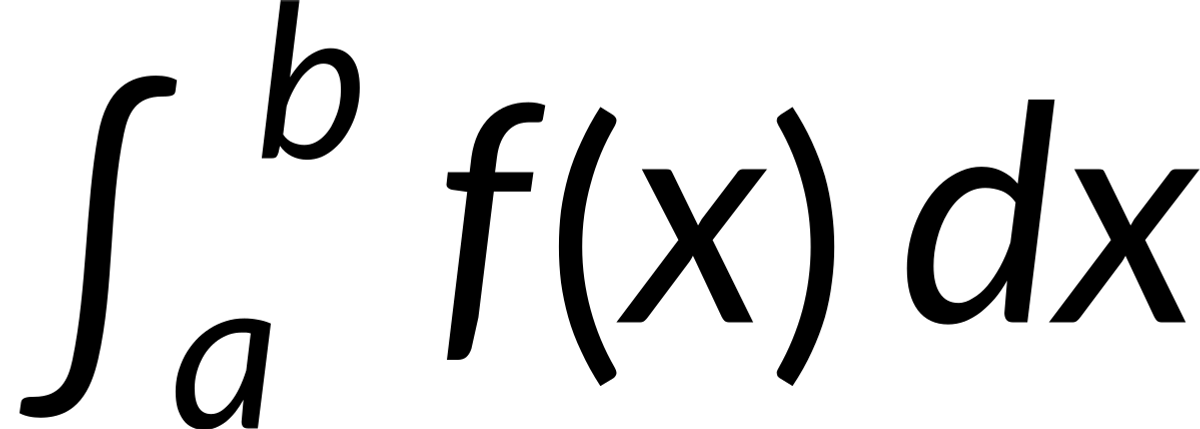
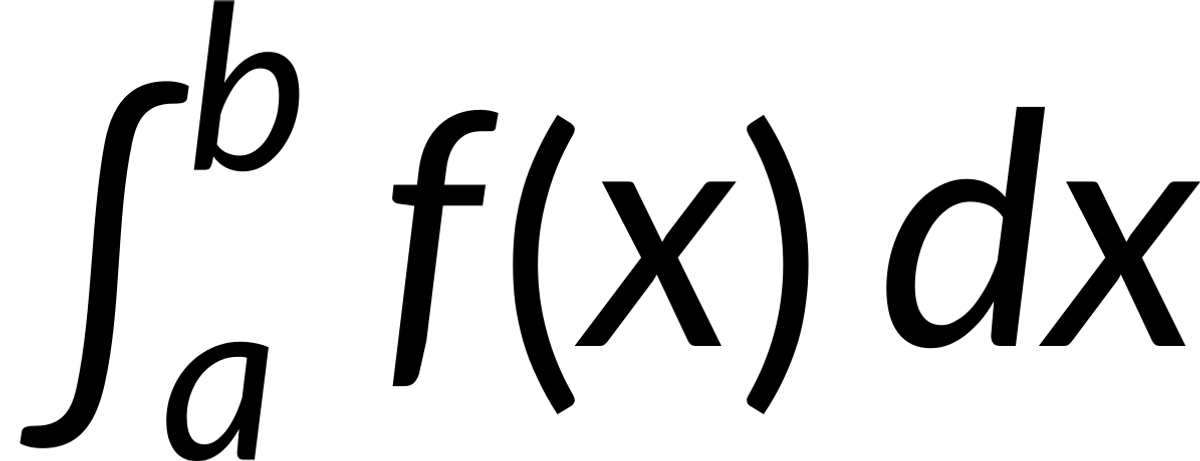
Lato: tighten integral smallop ratio to 0.78

diff --git a/mathjax-lato/cjs/svg/largeop.js b/mathjax-lato/cjs/svg/largeop.js
@@ -43,15 +43,15 @@ exports.largeop = {
     0x221A: [1.176, 0.294, 0.667, { p: '16 296 31 219 91 232 246 -294H352L655 1099H682V1176H589L296 -192L150 322Z' }],
     0x221B: [1.176, 0.294, 0.713, { p: '62 296 77 219 137 232 292 -294H398L701 1099H728V1176H635L342 -192L196 322ZM118 675C138 613 171 563 265 563C339 563 409 607 409 692C409 749 377 778 330 792C362 804 399 824 399 888C399 947 355 997 273 997C161 997 135 913 130 876C130 876 169 868 173 868C187 868 193 876 197 888C205 920 230 942 270 942C311 942 336 919 336 877C336 824 295 809 241 809V762C306 762 344 748 344 690C344 660 322 618 264 618C217 618 197 647 182 678C178 686 170 690 161 690C153 690 128 679 118 675Z' }],
     0x221C: [1.176, 0.294, 0.713, { p: '62 296 77 219 137 232 292 -294H398L701 1099H728V1176H635L342 -192L196 322ZM109 732 115 699C117 691 125 685 134 685H317V578H374V685H418C426 685 431 690 431 698V735H374V1003H312ZM179 735 319 929C317 915 317 901 317 888V735Z' }],
-    0x222B: [1.397, 0.837, 0.665, { p: '100 -819C124 -830 158 -837 193 -837C370 -837 433 -705 469 -556C600 -16 573 578 687 1122C709 1227 751 1314 886 1314H914C919 1314 937 1314 942 1331L948 1379C924 1390 892 1397 856 1397C670 1397 606 1274 579 1119C484 571 475 -17 362 -562C340 -667 297 -754 163 -754C128 -754 114 -755 107 -771Z', ic: 0.37 }],
-    0x222C: [1.397, 0.837, 0.896, { p: '100 -819C124 -830 158 -837 193 -837C370 -837 433 -705 469 -556C600 -16 573 578 687 1122C709 1227 751 1314 886 1314H914C919 1314 937 1314 942 1331L948 1379C924 1390 892 1397 856 1397C670 1397 606 1274 579 1119C484 571 475 -17 362 -562C340 -667 297 -754 163 -754C128 -754 114 -755 107 -771ZM440 -819C464 -830 498 -837 533 -837C710 -837 773 -705 809 -556C940 -16 913 578 1027 1122C1049 1227 1091 1314 1226 1314H1254C1259 1314 1277 1314 1282 1331L1288 1379C1264 1390 1232 1397 1196 1397C1010 1397 946 1274 919 1119C824 571 815 -17 702 -562C680 -667 637 -754 503 -754C468 -754 454 -755 447 -771Z', ic: 0.37 }],
-    0x222D: [1.397, 0.837, 1.127, { p: '100 -819C124 -830 158 -837 193 -837C370 -837 433 -705 469 -556C600 -16 573 578 687 1122C709 1227 751 1314 886 1314H914C919 1314 937 1314 942 1331L948 1379C924 1390 892 1397 856 1397C670 1397 606 1274 579 1119C484 571 475 -17 362 -562C340 -667 297 -754 163 -754C128 -754 114 -755 107 -771ZM440 -819C464 -830 498 -837 533 -837C710 -837 773 -705 809 -556C940 -16 913 578 1027 1122C1049 1227 1091 1314 1226 1314H1254C1259 1314 1277 1314 1282 1331L1288 1379C1264 1390 1232 1397 1196 1397C1010 1397 946 1274 919 1119C824 571 815 -17 702 -562C680 -667 637 -754 503 -754C468 -754 454 -755 447 -771ZM780 -819C804 -830 838 -837 873 -837C1050 -837 1113 -705 1149 -556C1280 -16 1253 578 1367 1122C1389 1227 1431 1314 1566 1314H1594C1599 1314 1617 1314 1622 1331L1628 1379C1604 1390 1572 1397 1536 1397C1350 1397 1286 1274 1259 1119C1164 571 1155 -17 1042 -562C1020 -667 977 -754 843 -754C808 -754 794 -755 787 -771Z', ic: 0.37 }],
-    0x222E: [1.397, 0.837, 0.665, { p: '100 -819C124 -830 158 -837 193 -837C370 -837 433 -705 469 -556C507 -400 531 -240 550 -78C737 -69 886 86 886 275C886 442 770 581 614 618C631 788 653 958 687 1122C709 1227 751 1314 886 1314H914C919 1314 937 1314 942 1331L948 1379C924 1390 892 1397 856 1397C670 1397 606 1274 579 1119C551 958 530 793 513 626C327 616 181 463 181 275C181 112 291 -25 440 -66C420 -233 396 -400 362 -562C340 -667 297 -754 163 -754C128 -754 114 -755 107 -771ZM253 275C253 420 364 539 505 554C486 372 469 189 449 7C336 43 253 150 253 275ZM558 -5C577 178 590 362 607 545C726 512 814 403 814 275C814 129 701 8 558 -5Z', ic: 0.37 }],
-    0x222F: [1.397, 0.837, 0.896, { p: '100 -819C124 -830 158 -837 193 -837C370 -837 433 -705 469 -556C509 -390 535 -218 554 -45C597 -54 642 -58 689 -58C720 -58 751 -56 781 -52C761 -224 737 -395 702 -562C680 -667 637 -754 503 -754C468 -754 454 -755 447 -771L440 -819C464 -830 498 -837 533 -837C710 -837 773 -705 809 -556C851 -384 876 -207 896 -27C1070 28 1192 152 1192 295C1192 422 1096 534 952 595C969 774 991 950 1027 1122C1049 1227 1091 1314 1226 1314H1254C1259 1314 1277 1314 1282 1331L1288 1379C1264 1390 1232 1397 1196 1397C1095 1397 965 1369 919 1117C890 957 869 793 851 628C800 640 746 647 689 647C664 647 640 646 617 643C633 805 654 966 687 1122C709 1227 751 1314 886 1314H914C919 1314 937 1314 942 1331L948 1379C924 1390 892 1397 856 1397C755 1397 625 1369 579 1117C549 956 528 791 510 624C321 574 187 446 187 295C187 162 291 46 445 -14C425 -199 399 -383 362 -562C340 -667 297 -754 163 -754C128 -754 114 -755 107 -771ZM259 295C259 406 358 502 502 547C485 385 471 222 453 60C336 111 259 197 259 295ZM561 27C580 207 592 389 609 570C635 573 662 575 689 575C743 575 795 568 843 556C825 379 809 200 789 22C757 17 724 14 689 14C645 14 602 18 561 27ZM904 52C919 207 931 364 945 520C1051 469 1120 387 1120 295C1120 192 1033 101 904 52Z', ic: 0.37 }],
-    0x2230: [1.397, 0.837, 1.127, { p: '100 -819C124 -830 158 -837 193 -837C370 -837 433 -705 469 -556C512 -379 538 -197 557 -12C625 -33 700 -48 781 -54C761 -226 736 -396 702 -562C680 -667 637 -754 503 -754C468 -754 454 -755 447 -771L440 -819C464 -830 498 -837 533 -837C710 -837 773 -705 809 -556C848 -394 873 -227 892 -58C974 -56 1052 -47 1124 -30C1103 -210 1078 -388 1042 -562C1020 -667 977 -754 843 -754C808 -754 794 -755 787 -771L780 -819C804 -830 838 -837 873 -837C1050 -837 1113 -705 1149 -556C1193 -373 1220 -185 1239 6C1403 70 1510 176 1510 295C1510 402 1424 498 1289 562C1306 752 1329 940 1367 1122C1389 1227 1431 1314 1566 1314H1594C1599 1314 1617 1314 1622 1331L1628 1379C1604 1390 1572 1397 1536 1397C1435 1397 1305 1369 1259 1117C1228 948 1206 775 1188 601C1118 623 1040 638 957 644C973 806 994 966 1027 1122C1049 1227 1091 1314 1226 1314H1254C1259 1314 1277 1314 1282 1331L1288 1379C1264 1390 1232 1397 1196 1397C1095 1397 965 1369 919 1117C891 963 870 806 853 647C768 645 687 635 614 617C631 788 652 957 687 1122C709 1227 751 1314 886 1314H914C919 1314 937 1314 942 1331L948 1379C924 1390 892 1397 856 1397C755 1397 625 1369 579 1117C547 942 525 763 506 583C342 519 235 414 235 295C235 190 318 95 450 31C428 -170 402 -369 362 -562C340 -667 297 -754 163 -754C128 -754 114 -755 107 -771ZM307 295C307 378 381 453 498 504C484 371 472 238 458 104C364 155 307 222 307 295ZM565 60C580 220 592 382 607 542C678 561 759 573 845 575C825 389 809 202 789 17C707 23 631 38 565 60ZM900 14C919 200 932 387 950 572C1034 567 1112 552 1180 530C1164 369 1149 207 1132 45C1062 27 983 16 900 14ZM1247 85C1260 219 1270 354 1282 488C1379 438 1438 370 1438 295C1438 212 1364 136 1247 85Z', ic: 0.37 }],
-    0x2231: [1.397, 0.837, 0.665, { p: '100 -819C124 -830 158 -837 193 -837C370 -837 433 -705 469 -556C542 -257 566 59 592 374C688 346 767 270 792 175L656 272L647 205L870 57L941 283L886 334L862 192C830 318 725 417 598 447C618 676 641 903 687 1122C709 1227 751 1314 886 1314H914C919 1314 937 1314 942 1331L948 1379C924 1390 892 1397 856 1397C670 1397 606 1274 579 1119C541 902 517 680 495 456C311 443 168 291 168 105H240C240 249 349 367 488 384C456 65 426 -256 362 -562C340 -667 297 -754 163 -754C128 -754 114 -755 107 -771Z', ic: 0.37 }],
-    0x2232: [1.397, 0.837, 0.665, { p: '100 -819C124 -830 158 -837 193 -837C370 -837 433 -705 469 -556C507 -400 531 -240 550 -78C721 -70 860 61 883 227L954 453L899 504L875 362C843 489 742 588 614 618C631 788 653 958 687 1122C709 1227 751 1314 886 1314H914C919 1314 937 1314 942 1331L948 1379C924 1390 892 1397 856 1397C670 1397 606 1274 579 1119C551 958 530 793 513 626C327 616 181 463 181 275C181 112 291 -25 440 -66C420 -233 396 -400 362 -562C340 -667 297 -754 163 -754C128 -754 114 -755 107 -771ZM253 275C253 420 364 539 505 554C486 372 469 189 449 7C336 43 253 150 253 275ZM558 -5C577 178 590 362 607 545C704 518 780 441 805 345L669 442L660 375L813 258C805 119 695 7 558 -5Z', ic: 0.37 }],
-    0x2233: [1.397, 0.837, 0.665, { p: '100 -819C124 -830 158 -837 193 -837C370 -837 433 -705 469 -556C507 -400 531 -240 550 -78C737 -69 886 86 886 275C886 314 881 351 869 386L960 275L983 346L812 491C763 553 694 599 614 618C631 788 653 958 687 1122C714 1251 763 1313 896 1313C914 1313 940 1316 942 1331L948 1379C924 1390 892 1397 856 1397C670 1397 606 1274 579 1119C551 958 530 793 513 626C327 616 181 463 181 275C181 112 291 -25 440 -66C420 -233 396 -400 362 -562C340 -667 297 -754 163 -754C128 -754 109 -755 107 -771ZM253 275C253 420 364 539 505 554C486 372 469 189 449 7C336 43 253 150 253 275ZM558 -5C577 178 590 362 607 545C671 527 726 488 763 435L689 267L730 213L799 365C809 337 814 306 814 275C814 129 701 8 558 -5Z', ic: 0.37 }],
+    0x222B: [1.397, 0.837, 0.665, { p: '100 -819C124 -830 158 -837 193 -837C370 -837 433 -705 469 -556C600 -16 573 578 687 1122C709 1227 751 1314 886 1314H914C919 1314 937 1314 942 1331L948 1379C924 1390 892 1397 856 1397C670 1397 606 1274 579 1119C484 571 475 -17 362 -562C340 -667 297 -754 163 -754C128 -754 114 -755 107 -771Z', ic: 0.25 }],
+    0x222C: [1.397, 0.837, 0.896, { p: '100 -819C124 -830 158 -837 193 -837C370 -837 433 -705 469 -556C600 -16 573 578 687 1122C709 1227 751 1314 886 1314H914C919 1314 937 1314 942 1331L948 1379C924 1390 892 1397 856 1397C670 1397 606 1274 579 1119C484 571 475 -17 362 -562C340 -667 297 -754 163 -754C128 -754 114 -755 107 -771ZM440 -819C464 -830 498 -837 533 -837C710 -837 773 -705 809 -556C940 -16 913 578 1027 1122C1049 1227 1091 1314 1226 1314H1254C1259 1314 1277 1314 1282 1331L1288 1379C1264 1390 1232 1397 1196 1397C1010 1397 946 1274 919 1119C824 571 815 -17 702 -562C680 -667 637 -754 503 -754C468 -754 454 -755 447 -771Z', ic: 0.25 }],
+    0x222D: [1.397, 0.837, 1.127, { p: '100 -819C124 -830 158 -837 193 -837C370 -837 433 -705 469 -556C600 -16 573 578 687 1122C709 1227 751 1314 886 1314H914C919 1314 937 1314 942 1331L948 1379C924 1390 892 1397 856 1397C670 1397 606 1274 579 1119C484 571 475 -17 362 -562C340 -667 297 -754 163 -754C128 -754 114 -755 107 -771ZM440 -819C464 -830 498 -837 533 -837C710 -837 773 -705 809 -556C940 -16 913 578 1027 1122C1049 1227 1091 1314 1226 1314H1254C1259 1314 1277 1314 1282 1331L1288 1379C1264 1390 1232 1397 1196 1397C1010 1397 946 1274 919 1119C824 571 815 -17 702 -562C680 -667 637 -754 503 -754C468 -754 454 -755 447 -771ZM780 -819C804 -830 838 -837 873 -837C1050 -837 1113 -705 1149 -556C1280 -16 1253 578 1367 1122C1389 1227 1431 1314 1566 1314H1594C1599 1314 1617 1314 1622 1331L1628 1379C1604 1390 1572 1397 1536 1397C1350 1397 1286 1274 1259 1119C1164 571 1155 -17 1042 -562C1020 -667 977 -754 843 -754C808 -754 794 -755 787 -771Z', ic: 0.25 }],
+    0x222E: [1.397, 0.837, 0.665, { p: '100 -819C124 -830 158 -837 193 -837C370 -837 433 -705 469 -556C507 -400 531 -240 550 -78C737 -69 886 86 886 275C886 442 770 581 614 618C631 788 653 958 687 1122C709 1227 751 1314 886 1314H914C919 1314 937 1314 942 1331L948 1379C924 1390 892 1397 856 1397C670 1397 606 1274 579 1119C551 958 530 793 513 626C327 616 181 463 181 275C181 112 291 -25 440 -66C420 -233 396 -400 362 -562C340 -667 297 -754 163 -754C128 -754 114 -755 107 -771ZM253 275C253 420 364 539 505 554C486 372 469 189 449 7C336 43 253 150 253 275ZM558 -5C577 178 590 362 607 545C726 512 814 403 814 275C814 129 701 8 558 -5Z', ic: 0.25 }],
+    0x222F: [1.397, 0.837, 0.896, { p: '100 -819C124 -830 158 -837 193 -837C370 -837 433 -705 469 -556C509 -390 535 -218 554 -45C597 -54 642 -58 689 -58C720 -58 751 -56 781 -52C761 -224 737 -395 702 -562C680 -667 637 -754 503 -754C468 -754 454 -755 447 -771L440 -819C464 -830 498 -837 533 -837C710 -837 773 -705 809 -556C851 -384 876 -207 896 -27C1070 28 1192 152 1192 295C1192 422 1096 534 952 595C969 774 991 950 1027 1122C1049 1227 1091 1314 1226 1314H1254C1259 1314 1277 1314 1282 1331L1288 1379C1264 1390 1232 1397 1196 1397C1095 1397 965 1369 919 1117C890 957 869 793 851 628C800 640 746 647 689 647C664 647 640 646 617 643C633 805 654 966 687 1122C709 1227 751 1314 886 1314H914C919 1314 937 1314 942 1331L948 1379C924 1390 892 1397 856 1397C755 1397 625 1369 579 1117C549 956 528 791 510 624C321 574 187 446 187 295C187 162 291 46 445 -14C425 -199 399 -383 362 -562C340 -667 297 -754 163 -754C128 -754 114 -755 107 -771ZM259 295C259 406 358 502 502 547C485 385 471 222 453 60C336 111 259 197 259 295ZM561 27C580 207 592 389 609 570C635 573 662 575 689 575C743 575 795 568 843 556C825 379 809 200 789 22C757 17 724 14 689 14C645 14 602 18 561 27ZM904 52C919 207 931 364 945 520C1051 469 1120 387 1120 295C1120 192 1033 101 904 52Z', ic: 0.25 }],
+    0x2230: [1.397, 0.837, 1.127, { p: '100 -819C124 -830 158 -837 193 -837C370 -837 433 -705 469 -556C512 -379 538 -197 557 -12C625 -33 700 -48 781 -54C761 -226 736 -396 702 -562C680 -667 637 -754 503 -754C468 -754 454 -755 447 -771L440 -819C464 -830 498 -837 533 -837C710 -837 773 -705 809 -556C848 -394 873 -227 892 -58C974 -56 1052 -47 1124 -30C1103 -210 1078 -388 1042 -562C1020 -667 977 -754 843 -754C808 -754 794 -755 787 -771L780 -819C804 -830 838 -837 873 -837C1050 -837 1113 -705 1149 -556C1193 -373 1220 -185 1239 6C1403 70 1510 176 1510 295C1510 402 1424 498 1289 562C1306 752 1329 940 1367 1122C1389 1227 1431 1314 1566 1314H1594C1599 1314 1617 1314 1622 1331L1628 1379C1604 1390 1572 1397 1536 1397C1435 1397 1305 1369 1259 1117C1228 948 1206 775 1188 601C1118 623 1040 638 957 644C973 806 994 966 1027 1122C1049 1227 1091 1314 1226 1314H1254C1259 1314 1277 1314 1282 1331L1288 1379C1264 1390 1232 1397 1196 1397C1095 1397 965 1369 919 1117C891 963 870 806 853 647C768 645 687 635 614 617C631 788 652 957 687 1122C709 1227 751 1314 886 1314H914C919 1314 937 1314 942 1331L948 1379C924 1390 892 1397 856 1397C755 1397 625 1369 579 1117C547 942 525 763 506 583C342 519 235 414 235 295C235 190 318 95 450 31C428 -170 402 -369 362 -562C340 -667 297 -754 163 -754C128 -754 114 -755 107 -771ZM307 295C307 378 381 453 498 504C484 371 472 238 458 104C364 155 307 222 307 295ZM565 60C580 220 592 382 607 542C678 561 759 573 845 575C825 389 809 202 789 17C707 23 631 38 565 60ZM900 14C919 200 932 387 950 572C1034 567 1112 552 1180 530C1164 369 1149 207 1132 45C1062 27 983 16 900 14ZM1247 85C1260 219 1270 354 1282 488C1379 438 1438 370 1438 295C1438 212 1364 136 1247 85Z', ic: 0.25 }],
+    0x2231: [1.397, 0.837, 0.665, { p: '100 -819C124 -830 158 -837 193 -837C370 -837 433 -705 469 -556C542 -257 566 59 592 374C688 346 767 270 792 175L656 272L647 205L870 57L941 283L886 334L862 192C830 318 725 417 598 447C618 676 641 903 687 1122C709 1227 751 1314 886 1314H914C919 1314 937 1314 942 1331L948 1379C924 1390 892 1397 856 1397C670 1397 606 1274 579 1119C541 902 517 680 495 456C311 443 168 291 168 105H240C240 249 349 367 488 384C456 65 426 -256 362 -562C340 -667 297 -754 163 -754C128 -754 114 -755 107 -771Z', ic: 0.25 }],
+    0x2232: [1.397, 0.837, 0.665, { p: '100 -819C124 -830 158 -837 193 -837C370 -837 433 -705 469 -556C507 -400 531 -240 550 -78C721 -70 860 61 883 227L954 453L899 504L875 362C843 489 742 588 614 618C631 788 653 958 687 1122C709 1227 751 1314 886 1314H914C919 1314 937 1314 942 1331L948 1379C924 1390 892 1397 856 1397C670 1397 606 1274 579 1119C551 958 530 793 513 626C327 616 181 463 181 275C181 112 291 -25 440 -66C420 -233 396 -400 362 -562C340 -667 297 -754 163 -754C128 -754 114 -755 107 -771ZM253 275C253 420 364 539 505 554C486 372 469 189 449 7C336 43 253 150 253 275ZM558 -5C577 178 590 362 607 545C704 518 780 441 805 345L669 442L660 375L813 258C805 119 695 7 558 -5Z', ic: 0.25 }],
+    0x2233: [1.397, 0.837, 0.665, { p: '100 -819C124 -830 158 -837 193 -837C370 -837 433 -705 469 -556C507 -400 531 -240 550 -78C737 -69 886 86 886 275C886 314 881 351 869 386L960 275L983 346L812 491C763 553 694 599 614 618C631 788 653 958 687 1122C714 1251 763 1313 896 1313C914 1313 940 1316 942 1331L948 1379C924 1390 892 1397 856 1397C670 1397 606 1274 579 1119C551 958 530 793 513 626C327 616 181 463 181 275C181 112 291 -25 440 -66C420 -233 396 -400 362 -562C340 -667 297 -754 163 -754C128 -754 109 -755 107 -771ZM253 275C253 420 364 539 505 554C486 372 469 189 449 7C336 43 253 150 253 275ZM558 -5C577 178 590 362 607 545C671 527 726 488 763 435L689 267L730 213L799 365C809 337 814 306 814 275C814 129 701 8 558 -5Z', ic: 0.25 }],
     0x22C0: [1.006, 0.445, 1.265, { p: '60 -445H162L630 827H633L1103 -445H1205L671 1006H593Z' }],
     0x22C1: [1.005, 0.445, 1.265, { p: '60 1005 593 -445H671L1205 1005H1103L633 -266H630L162 1005Z' }],
     0x22C2: [1.001, 0.46, 1.265, { p: '118 -460H214V534C214 712 400 905 639 905C878 905 1051 712 1051 534V-460H1147V509C1147 786 886 1001 641 1001C364 1001 118 805 118 509Z' }],

diff --git a/mathjax-lato/cjs/svg/smallop.js b/mathjax-lato/cjs/svg/smallop.js
@@ -49,15 +49,15 @@ exports.smallop = {
     0x221A: [0.952, 0.2, 0.649, { p: '16 258 31 182 85 194 229 -200H333L637 875H664V952H572L278 -105L143 284Z' }],
     0x221B: [0.952, 0.2, 0.693, { p: '60 258 75 182 129 194 273 -200H377L681 875H708V952H616L322 -105L187 284ZM124 624C143 566 177 528 254 528C333 528 380 579 380 640C380 681 357 708 312 720C352 735 372 763 372 806C372 853 335 900 260 900C186 900 145 859 135 794L168 788C172 787 175 787 178 787C209 787 191 846 256 846C288 846 309 829 309 796C309 753 279 739 230 739V696C279 696 314 686 314 638C314 604 286 582 251 582C215 582 196 603 186 628C183 635 175 639 166 639C161 639 157 638 152 636Z' }],
     0x221C: [0.952, 0.2, 0.693, { p: '60 258 75 182 129 194 273 -200H377L681 875H708V952H616L322 -105L187 284ZM124 652 130 624C133 615 137 610 150 610H304V522H358V610H399C407 610 412 615 412 623V656H358V886H296ZM186 656 306 820C305 804 304 789 304 776V656Z' }],
-    0x222B: [0.845, 0.285, 0.525, { p: '60 -270C78 -280 103 -285 129 -285C251 -285 296 -195 320 -91C373 140 356 420 405 654C419 720 444 776 531 776C563 776 573 780 575 793L580 830C562 840 538 845 511 845C426 845 348 804 320 652C277 416 284 141 235 -94C221 -160 195 -216 109 -216C86 -216 67 -218 65 -235Z', ic: 0.22 }],
-    0x222C: [0.845, 0.285, 0.739, { p: '60 -270C78 -280 103 -285 129 -285C251 -285 296 -195 320 -91C373 140 356 420 405 654C419 720 444 776 531 776C563 776 573 780 575 793L580 830C562 840 538 845 511 845C426 845 348 804 320 652C277 416 284 141 235 -94C221 -160 195 -216 109 -216C86 -216 71 -216 65 -232ZM300 -270C318 -280 343 -285 369 -285C491 -285 536 -195 560 -91C613 140 596 420 645 654C659 720 684 776 771 776C803 776 813 780 815 793L820 830C802 840 778 845 751 845C666 845 588 804 560 652C517 416 524 141 475 -94C461 -160 435 -216 349 -216C326 -216 311 -216 305 -232Z', ic: 0.22 }],
-    0x222D: [0.845, 0.285, 0.952, { p: '60 -270C78 -280 103 -285 129 -285C251 -285 296 -195 320 -91C373 140 356 420 405 654C419 720 444 776 531 776C563 776 573 780 575 793L580 830C562 840 538 845 511 845C426 845 348 804 320 652C277 416 284 141 235 -94C221 -160 195 -216 109 -216C86 -216 71 -216 65 -232ZM300 -270C318 -280 343 -285 369 -285C491 -285 536 -195 560 -91C613 140 596 420 645 654C659 720 684 776 771 776C803 776 813 780 815 793L820 830C802 840 778 845 751 845C666 845 588 804 560 652C517 416 524 141 475 -94C461 -160 435 -216 349 -216C326 -216 311 -216 305 -232ZM540 -270C558 -280 583 -285 609 -285C731 -285 776 -195 800 -91C853 140 836 420 885 654C899 720 924 776 1011 776C1043 776 1053 780 1055 793L1060 830C1042 840 1018 845 991 845C906 845 828 804 800 652C757 416 764 141 715 -94C701 -160 675 -216 589 -216C566 -216 551 -216 545 -232Z', ic: 0.22 }],
-    0x222E: [0.845, 0.285, 0.525, { p: '60 -270C78 -280 103 -285 129 -285C272 -285 317 -168 344 49C463 61 555 161 555 283C555 391 482 482 383 510C388 559 395 607 405 654C419 720 444 776 531 776C563 776 573 780 575 793L580 830C562 840 538 845 511 845C426 845 348 804 320 652C312 608 306 563 300 517C180 507 85 406 85 283C85 174 159 83 259 56C253 5 245 -45 235 -94C221 -160 195 -216 109 -216C86 -216 71 -216 65 -232ZM133 283C133 378 204 456 295 468C283 349 277 224 265 104C188 128 133 199 133 283ZM350 98C362 217 366 341 378 461C453 437 507 366 507 283C507 190 439 113 350 98Z', ic: 0.22 }],
-    0x222F: [0.845, 0.285, 0.739, { p: '60 -270C78 -280 103 -285 129 -285C271 -285 318 -171 345 58C375 51 407 48 440 48C460 48 480 49 499 52C473 -132 461 -216 349 -216C326 -216 311 -216 305 -232L300 -270C318 -280 343 -285 369 -285C529 -285 561 -135 587 72C698 110 775 190 775 283C775 367 713 440 620 481C643 709 667 776 771 776C803 776 813 780 815 793L820 830C802 840 778 845 751 845C580 845 561 687 539 507C508 514 475 518 440 518C421 518 402 517 383 515C407 701 423 776 531 776C563 776 573 780 575 793L580 830C562 840 538 845 511 845C338 845 319 681 298 496C184 459 105 377 105 283C105 199 168 125 262 84C256 23 247 -37 235 -94C221 -160 195 -216 109 -216C86 -216 71 -216 65 -232ZM153 283C153 351 209 411 293 444C284 341 278 236 268 134C198 168 153 222 153 283ZM350 105C362 224 367 347 378 466C398 468 419 470 440 470C473 470 505 466 535 460C523 341 517 219 504 101C484 98 462 96 440 96C409 96 379 99 350 105ZM592 125C602 225 606 330 615 431C683 397 727 343 727 283C727 216 673 158 592 125Z', ic: 0.22 }],
-    0x2230: [0.845, 0.285, 0.952, { p: '60 -270C78 -280 103 -285 129 -285C282 -285 320 -152 348 79C393 65 444 55 498 50C474 -145 454 -216 349 -216C326 -216 311 -216 305 -232L300 -270C318 -280 343 -285 369 -285C514 -285 557 -165 584 48C640 50 693 58 741 70C734 14 726 -41 715 -94C701 -160 675 -216 589 -216C566 -216 551 -216 545 -232L540 -270C558 -280 583 -285 609 -285C761 -285 803 -153 830 101C925 144 985 210 985 283C985 349 936 409 857 451C863 521 871 589 885 654C899 720 924 776 1011 776C1043 776 1053 780 1055 793L1060 830C1042 840 1018 845 991 845C817 845 798 680 777 485C731 500 679 511 623 515C647 706 666 776 771 776C803 776 813 780 815 793L820 830C802 840 778 845 751 845C581 845 559 684 541 518C484 516 430 509 381 496C405 708 427 776 531 776C563 776 573 780 575 793L580 830C562 840 538 845 511 845C426 845 348 804 320 652C309 592 301 530 295 467C198 424 135 358 135 283C135 216 185 156 266 113C258 42 249 -27 235 -94C221 -160 195 -216 109 -216C86 -216 71 -216 65 -232ZM183 283C183 334 224 380 290 414C283 331 278 246 270 163C216 196 183 238 183 283ZM352 127C362 232 367 341 376 446C424 459 478 468 536 470C523 347 517 220 504 98C449 102 397 112 352 127ZM589 97C602 218 606 346 618 468C675 463 727 453 772 437C763 333 757 225 746 120C699 107 646 99 589 97ZM835 155C842 236 846 319 852 401C905 369 937 328 937 283C937 234 898 189 835 155Z', ic: 0.22 }],
-    0x2231: [0.845, 0.285, 0.525, { p: '60 -270C78 -280 103 -285 129 -285C251 -285 296 -195 320 -91C359 79 360 275 377 461C452 438 506 372 506 285L435 374L417 331L530 185L623 331L596 374L555 285C555 393 482 483 383 510C388 559 395 607 405 654C419 720 444 776 531 776C563 776 573 780 575 793L580 830C562 840 538 845 511 845C426 845 348 804 320 652C312 608 306 563 301 517C182 507 87 408 85 287H134C136 380 205 456 295 467C277 280 272 82 235 -94C221 -160 195 -216 109 -216C86 -216 67 -218 65 -235Z', ic: 0.22 }],
-    0x2232: [0.845, 0.285, 0.525, { p: '60 -270C78 -280 103 -285 129 -285C272 -285 317 -168 344 49C435 58 510 119 541 202L623 331L596 374L555 285C554 392 481 482 383 510C388 559 395 607 405 654C419 720 444 776 531 776C563 776 573 780 575 793L580 830C562 840 538 845 511 845C426 845 348 804 320 652C312 608 306 563 300 517C180 507 85 406 85 283C85 174 159 83 259 56C253 5 245 -45 235 -94C221 -160 195 -216 109 -216C86 -216 71 -216 65 -232ZM133 283C133 378 204 456 295 468C283 349 277 224 265 104C188 128 133 199 133 283ZM350 98C362 217 366 341 378 461C452 437 506 367 507 285L435 374L417 331L498 226C477 160 420 110 350 98Z', ic: 0.22 }],
-    0x2233: [0.845, 0.285, 0.525, { p: '60 -270C78 -280 103 -285 129 -285C272 -285 317 -168 344 49C462 61 554 160 555 281L607 192L634 235L531 386C502 446 448 492 383 510C388 559 395 607 405 654C419 720 444 776 531 776C563 776 573 780 575 793L580 830C562 840 538 845 511 845C426 845 348 804 320 652C312 608 306 563 300 517C180 507 85 406 85 283C85 174 159 83 259 56C253 5 245 -45 235 -94C221 -160 195 -216 109 -216C86 -216 71 -216 65 -232ZM133 283C133 378 204 456 295 468C283 349 277 224 265 104C188 128 133 199 133 283ZM350 98C362 217 366 341 378 461C429 445 470 407 492 358L408 235L426 192C457 225 477 247 507 281C506 189 438 113 350 98Z', ic: 0.22 }],
+    0x222B: [0.845, 0.285, 0.46, { p: '60 -270C78 -280 103 -285 129 -285C251 -285 296 -195 320 -91C373 140 356 420 405 654C419 720 444 776 531 776C563 776 573 780 575 793L580 830C562 840 538 845 511 845C426 845 348 804 320 652C277 416 284 141 235 -94C221 -160 195 -216 109 -216C86 -216 67 -218 65 -235Z', ic: 0.03 }],
+    0x222C: [0.845, 0.285, 0.647, { p: '60 -270C78 -280 103 -285 129 -285C251 -285 296 -195 320 -91C373 140 356 420 405 654C419 720 444 776 531 776C563 776 573 780 575 793L580 830C562 840 538 845 511 845C426 845 348 804 320 652C277 416 284 141 235 -94C221 -160 195 -216 109 -216C86 -216 71 -216 65 -232ZM300 -270C318 -280 343 -285 369 -285C491 -285 536 -195 560 -91C613 140 596 420 645 654C659 720 684 776 771 776C803 776 813 780 815 793L820 830C802 840 778 845 751 845C666 845 588 804 560 652C517 416 524 141 475 -94C461 -160 435 -216 349 -216C326 -216 311 -216 305 -232Z', ic: 0.03 }],
+    0x222D: [0.845, 0.285, 0.835, { p: '60 -270C78 -280 103 -285 129 -285C251 -285 296 -195 320 -91C373 140 356 420 405 654C419 720 444 776 531 776C563 776 573 780 575 793L580 830C562 840 538 845 511 845C426 845 348 804 320 652C277 416 284 141 235 -94C221 -160 195 -216 109 -216C86 -216 71 -216 65 -232ZM300 -270C318 -280 343 -285 369 -285C491 -285 536 -195 560 -91C613 140 596 420 645 654C659 720 684 776 771 776C803 776 813 780 815 793L820 830C802 840 778 845 751 845C666 845 588 804 560 652C517 416 524 141 475 -94C461 -160 435 -216 349 -216C326 -216 311 -216 305 -232ZM540 -270C558 -280 583 -285 609 -285C731 -285 776 -195 800 -91C853 140 836 420 885 654C899 720 924 776 1011 776C1043 776 1053 780 1055 793L1060 830C1042 840 1018 845 991 845C906 845 828 804 800 652C757 416 764 141 715 -94C701 -160 675 -216 589 -216C566 -216 551 -216 545 -232Z', ic: 0.03 }],
+    0x222E: [0.845, 0.285, 0.46, { p: '60 -270C78 -280 103 -285 129 -285C272 -285 317 -168 344 49C463 61 555 161 555 283C555 391 482 482 383 510C388 559 395 607 405 654C419 720 444 776 531 776C563 776 573 780 575 793L580 830C562 840 538 845 511 845C426 845 348 804 320 652C312 608 306 563 300 517C180 507 85 406 85 283C85 174 159 83 259 56C253 5 245 -45 235 -94C221 -160 195 -216 109 -216C86 -216 71 -216 65 -232ZM133 283C133 378 204 456 295 468C283 349 277 224 265 104C188 128 133 199 133 283ZM350 98C362 217 366 341 378 461C453 437 507 366 507 283C507 190 439 113 350 98Z', ic: 0.03 }],
+    0x222F: [0.845, 0.285, 0.647, { p: '60 -270C78 -280 103 -285 129 -285C271 -285 318 -171 345 58C375 51 407 48 440 48C460 48 480 49 499 52C473 -132 461 -216 349 -216C326 -216 311 -216 305 -232L300 -270C318 -280 343 -285 369 -285C529 -285 561 -135 587 72C698 110 775 190 775 283C775 367 713 440 620 481C643 709 667 776 771 776C803 776 813 780 815 793L820 830C802 840 778 845 751 845C580 845 561 687 539 507C508 514 475 518 440 518C421 518 402 517 383 515C407 701 423 776 531 776C563 776 573 780 575 793L580 830C562 840 538 845 511 845C338 845 319 681 298 496C184 459 105 377 105 283C105 199 168 125 262 84C256 23 247 -37 235 -94C221 -160 195 -216 109 -216C86 -216 71 -216 65 -232ZM153 283C153 351 209 411 293 444C284 341 278 236 268 134C198 168 153 222 153 283ZM350 105C362 224 367 347 378 466C398 468 419 470 440 470C473 470 505 466 535 460C523 341 517 219 504 101C484 98 462 96 440 96C409 96 379 99 350 105ZM592 125C602 225 606 330 615 431C683 397 727 343 727 283C727 216 673 158 592 125Z', ic: 0.03 }],
+    0x2230: [0.845, 0.285, 0.835, { p: '60 -270C78 -280 103 -285 129 -285C282 -285 320 -152 348 79C393 65 444 55 498 50C474 -145 454 -216 349 -216C326 -216 311 -216 305 -232L300 -270C318 -280 343 -285 369 -285C514 -285 557 -165 584 48C640 50 693 58 741 70C734 14 726 -41 715 -94C701 -160 675 -216 589 -216C566 -216 551 -216 545 -232L540 -270C558 -280 583 -285 609 -285C761 -285 803 -153 830 101C925 144 985 210 985 283C985 349 936 409 857 451C863 521 871 589 885 654C899 720 924 776 1011 776C1043 776 1053 780 1055 793L1060 830C1042 840 1018 845 991 845C817 845 798 680 777 485C731 500 679 511 623 515C647 706 666 776 771 776C803 776 813 780 815 793L820 830C802 840 778 845 751 845C581 845 559 684 541 518C484 516 430 509 381 496C405 708 427 776 531 776C563 776 573 780 575 793L580 830C562 840 538 845 511 845C426 845 348 804 320 652C309 592 301 530 295 467C198 424 135 358 135 283C135 216 185 156 266 113C258 42 249 -27 235 -94C221 -160 195 -216 109 -216C86 -216 71 -216 65 -232ZM183 283C183 334 224 380 290 414C283 331 278 246 270 163C216 196 183 238 183 283ZM352 127C362 232 367 341 376 446C424 459 478 468 536 470C523 347 517 220 504 98C449 102 397 112 352 127ZM589 97C602 218 606 346 618 468C675 463 727 453 772 437C763 333 757 225 746 120C699 107 646 99 589 97ZM835 155C842 236 846 319 852 401C905 369 937 328 937 283C937 234 898 189 835 155Z', ic: 0.03 }],
+    0x2231: [0.845, 0.285, 0.46, { p: '60 -270C78 -280 103 -285 129 -285C251 -285 296 -195 320 -91C359 79 360 275 377 461C452 438 506 372 506 285L435 374L417 331L530 185L623 331L596 374L555 285C555 393 482 483 383 510C388 559 395 607 405 654C419 720 444 776 531 776C563 776 573 780 575 793L580 830C562 840 538 845 511 845C426 845 348 804 320 652C312 608 306 563 301 517C182 507 87 408 85 287H134C136 380 205 456 295 467C277 280 272 82 235 -94C221 -160 195 -216 109 -216C86 -216 67 -218 65 -235Z', ic: 0.03 }],
+    0x2232: [0.845, 0.285, 0.46, { p: '60 -270C78 -280 103 -285 129 -285C272 -285 317 -168 344 49C435 58 510 119 541 202L623 331L596 374L555 285C554 392 481 482 383 510C388 559 395 607 405 654C419 720 444 776 531 776C563 776 573 780 575 793L580 830C562 840 538 845 511 845C426 845 348 804 320 652C312 608 306 563 300 517C180 507 85 406 85 283C85 174 159 83 259 56C253 5 245 -45 235 -94C221 -160 195 -216 109 -216C86 -216 71 -216 65 -232ZM133 283C133 378 204 456 295 468C283 349 277 224 265 104C188 128 133 199 133 283ZM350 98C362 217 366 341 378 461C452 437 506 367 507 285L435 374L417 331L498 226C477 160 420 110 350 98Z', ic: 0.03 }],
+    0x2233: [0.845, 0.285, 0.46, { p: '60 -270C78 -280 103 -285 129 -285C272 -285 317 -168 344 49C462 61 554 160 555 281L607 192L634 235L531 386C502 446 448 492 383 510C388 559 395 607 405 654C419 720 444 776 531 776C563 776 573 780 575 793L580 830C562 840 538 845 511 845C426 845 348 804 320 652C312 608 306 563 300 517C180 507 85 406 85 283C85 174 159 83 259 56C253 5 245 -45 235 -94C221 -160 195 -216 109 -216C86 -216 71 -216 65 -232ZM133 283C133 378 204 456 295 468C283 349 277 224 265 104C188 128 133 199 133 283ZM350 98C362 217 366 341 378 461C429 445 470 407 492 358L408 235L426 192C457 225 477 247 507 281C506 189 438 113 350 98Z', ic: 0.03 }],
     0x22C0: [0.791, 0.231, 0.924, { p: '54 -231H130L462 646L794 -231H870L490 791H434Z' }],
     0x22C1: [0.791, 0.231, 0.924, { p: '54 791 434 -231H490L870 791H794L462 -86L130 791Z' }],
     0x22C2: [0.791, 0.231, 0.924, { p: '94 -231H167V474C167 601 298 718 462 718C626 718 757 601 757 474V-231H830V461C830 659 643 791 468 791C270 791 94 658 94 461Z' }],

diff --git a/mathjax-lato/build.py b/mathjax-lato/build.py
@@ -166,7 +166,7 @@ def main():
     print("  Adjusted overbrace/underbrace label spacing (+0.35em)")
 
     # Adjust integral widths for better subscript tucking
-    adjust_integral_widths(OUTPUT_DIR, smallop_w_ratio=0.89, largeop_w_ratio=0.68)
+    adjust_integral_widths(OUTPUT_DIR, smallop_w_ratio=0.78, smallop_ic=0.03, largeop_w_ratio=0.68, largeop_ic=0.25)
 
     # Wire calligraphic AND script in svg.js
     # tex-calligraphic.js = empty (mathcal uses Lete defaults from normal.js)
